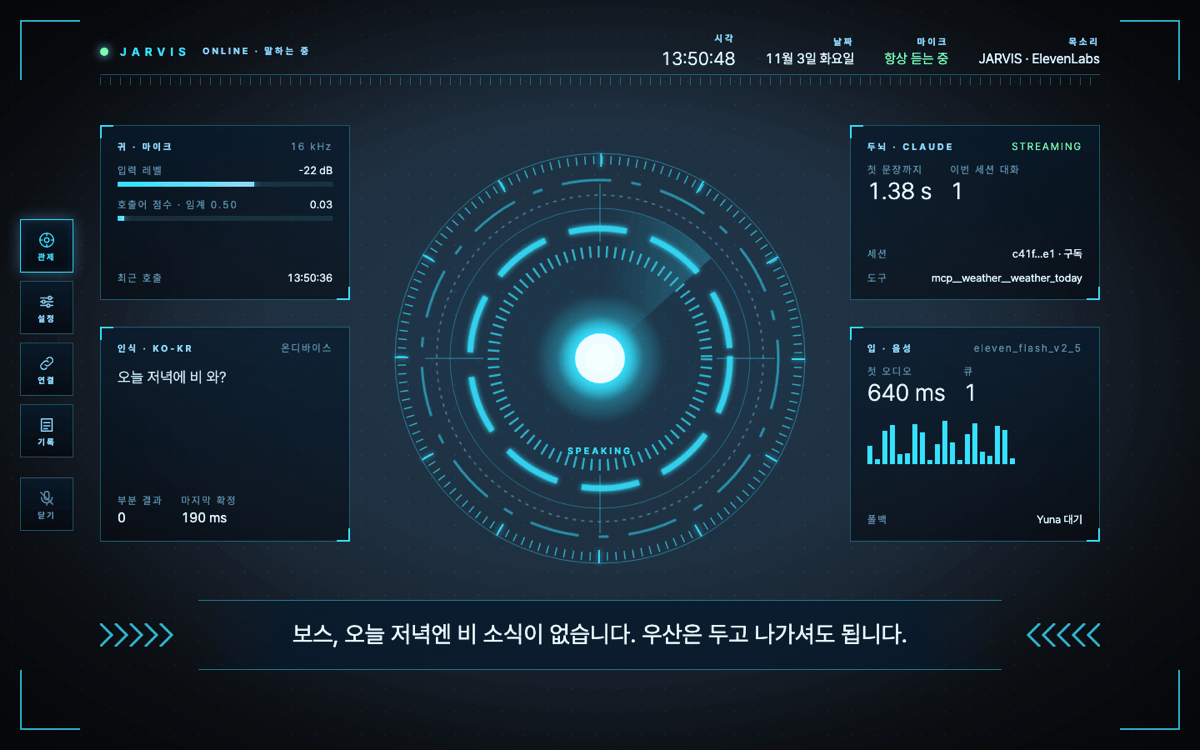
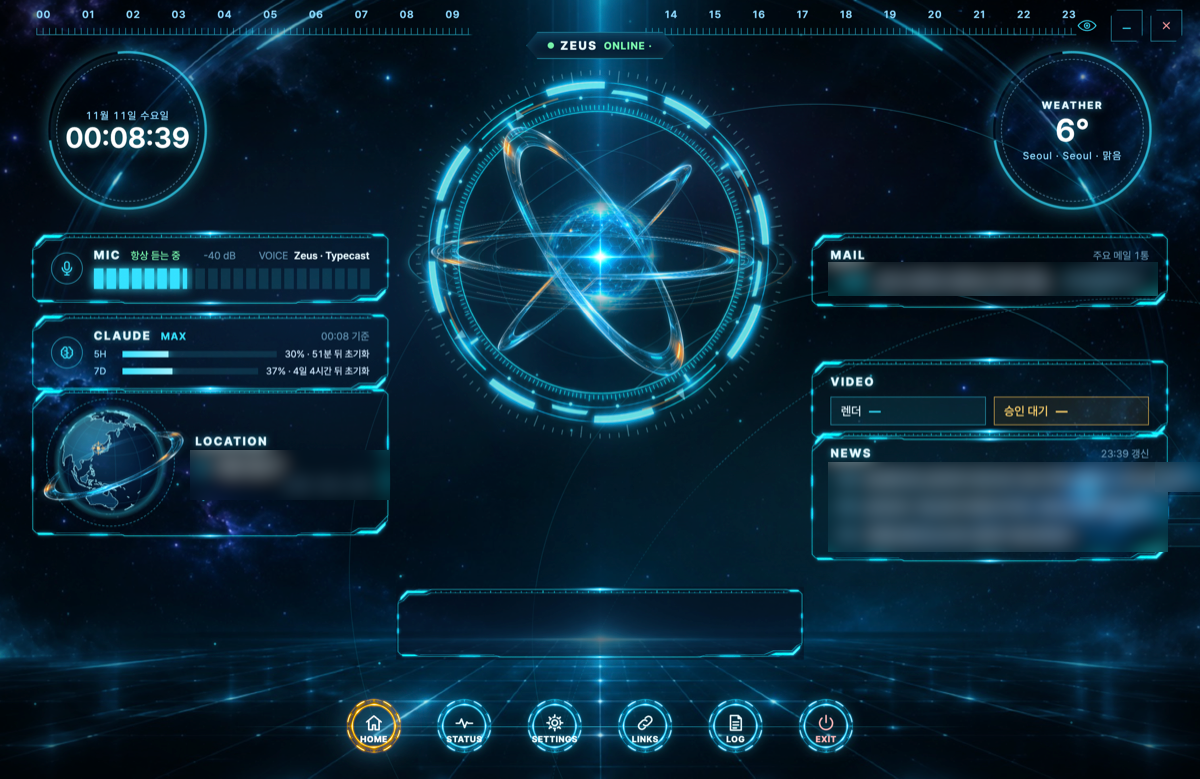
ZEUS 새 관제 화면으로 교체(개인정보 블러)

diff --git a/README.md b/README.md
@@ -103,11 +103,8 @@
 
 <img src="shots/projects/jarvis/hud.png" width="720" alt="ZEUS 관제 화면">
 
-| 듣는 중 (실시간 받아쓰기) | 도구 호출 (유튜브 재생) |
-|---|---|
-| <img src="shots/projects/jarvis/listening.png" width="480"> | <img src="shots/projects/jarvis/tool.png" width="480"> |
-| **화면 작게 · 쓰기 작업 확인** | |
-| <img src="shots/projects/jarvis/confirm.png" width="480"> | |
+<sub>관제 화면: 시계·날씨·마이크·Claude 사용량·위치·메일·영상 공장·뉴스 패널. 개인 정보(위치·메일·뉴스)는 블러 처리했습니다.</sub>
+
 
 <sub>캡처는 실제 HUD 렌더러 코드에 시연용 상태값을 넣어 찍었습니다. 앱과 연결되는 부분만 대체했습니다.</sub>
 
